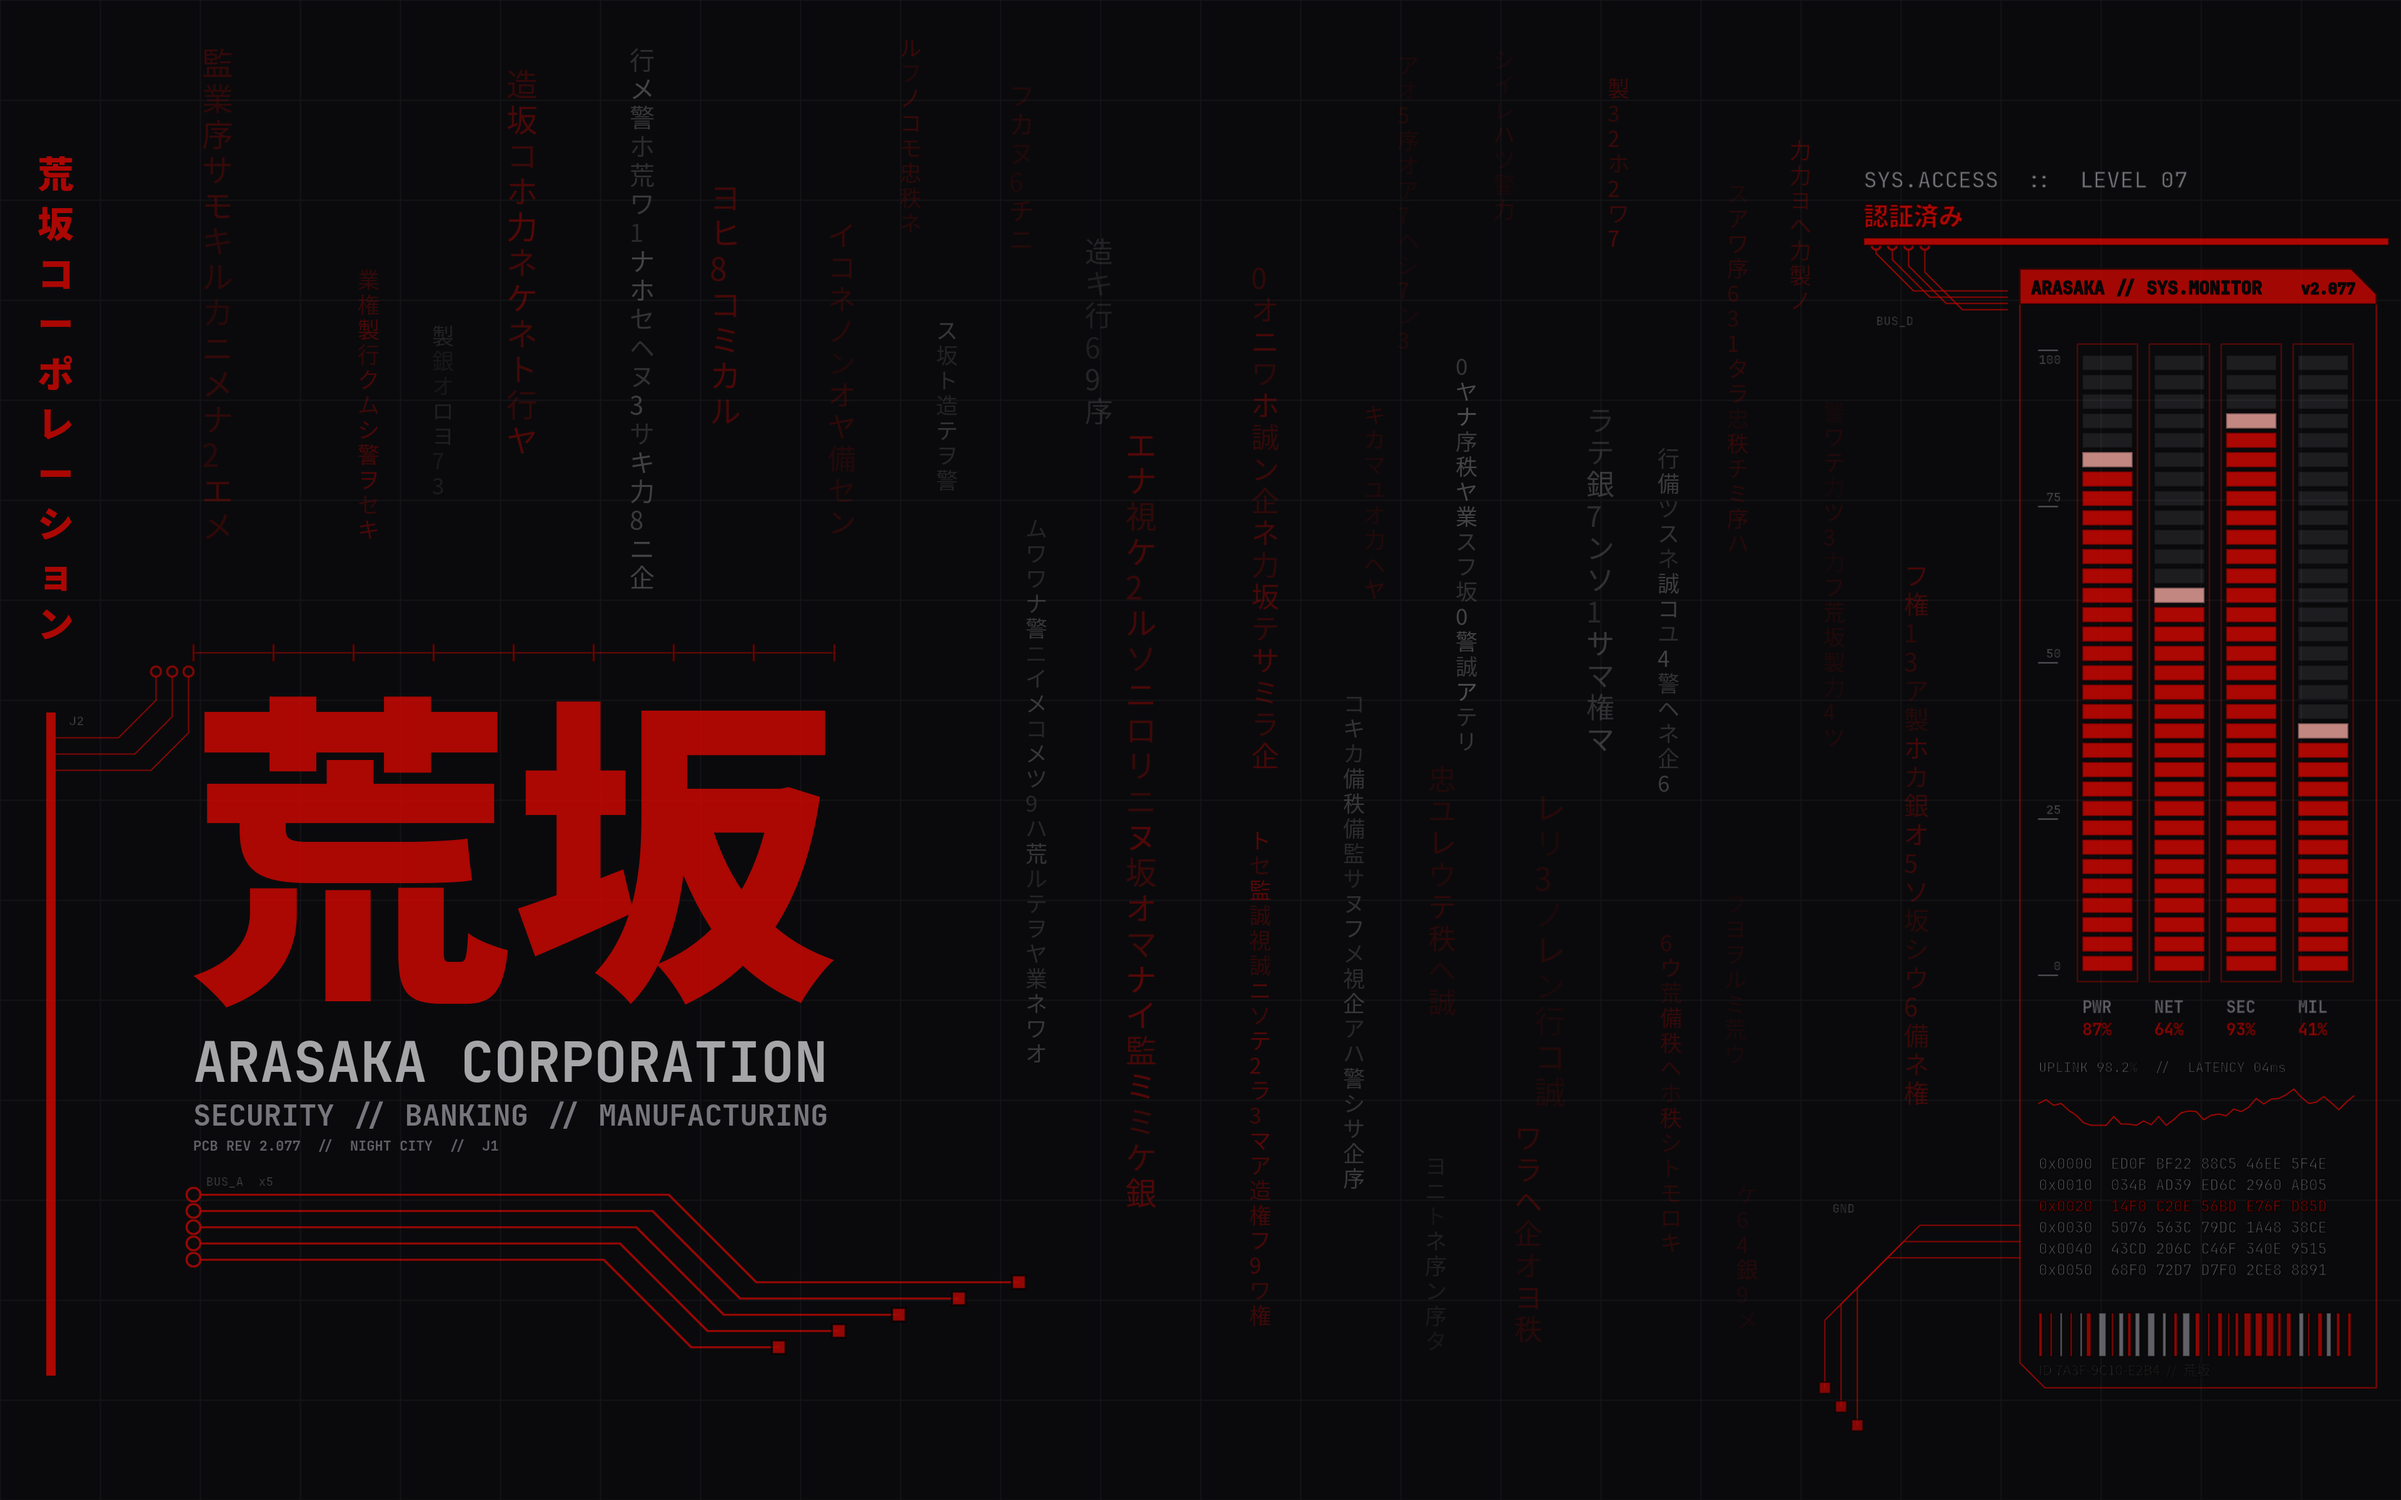
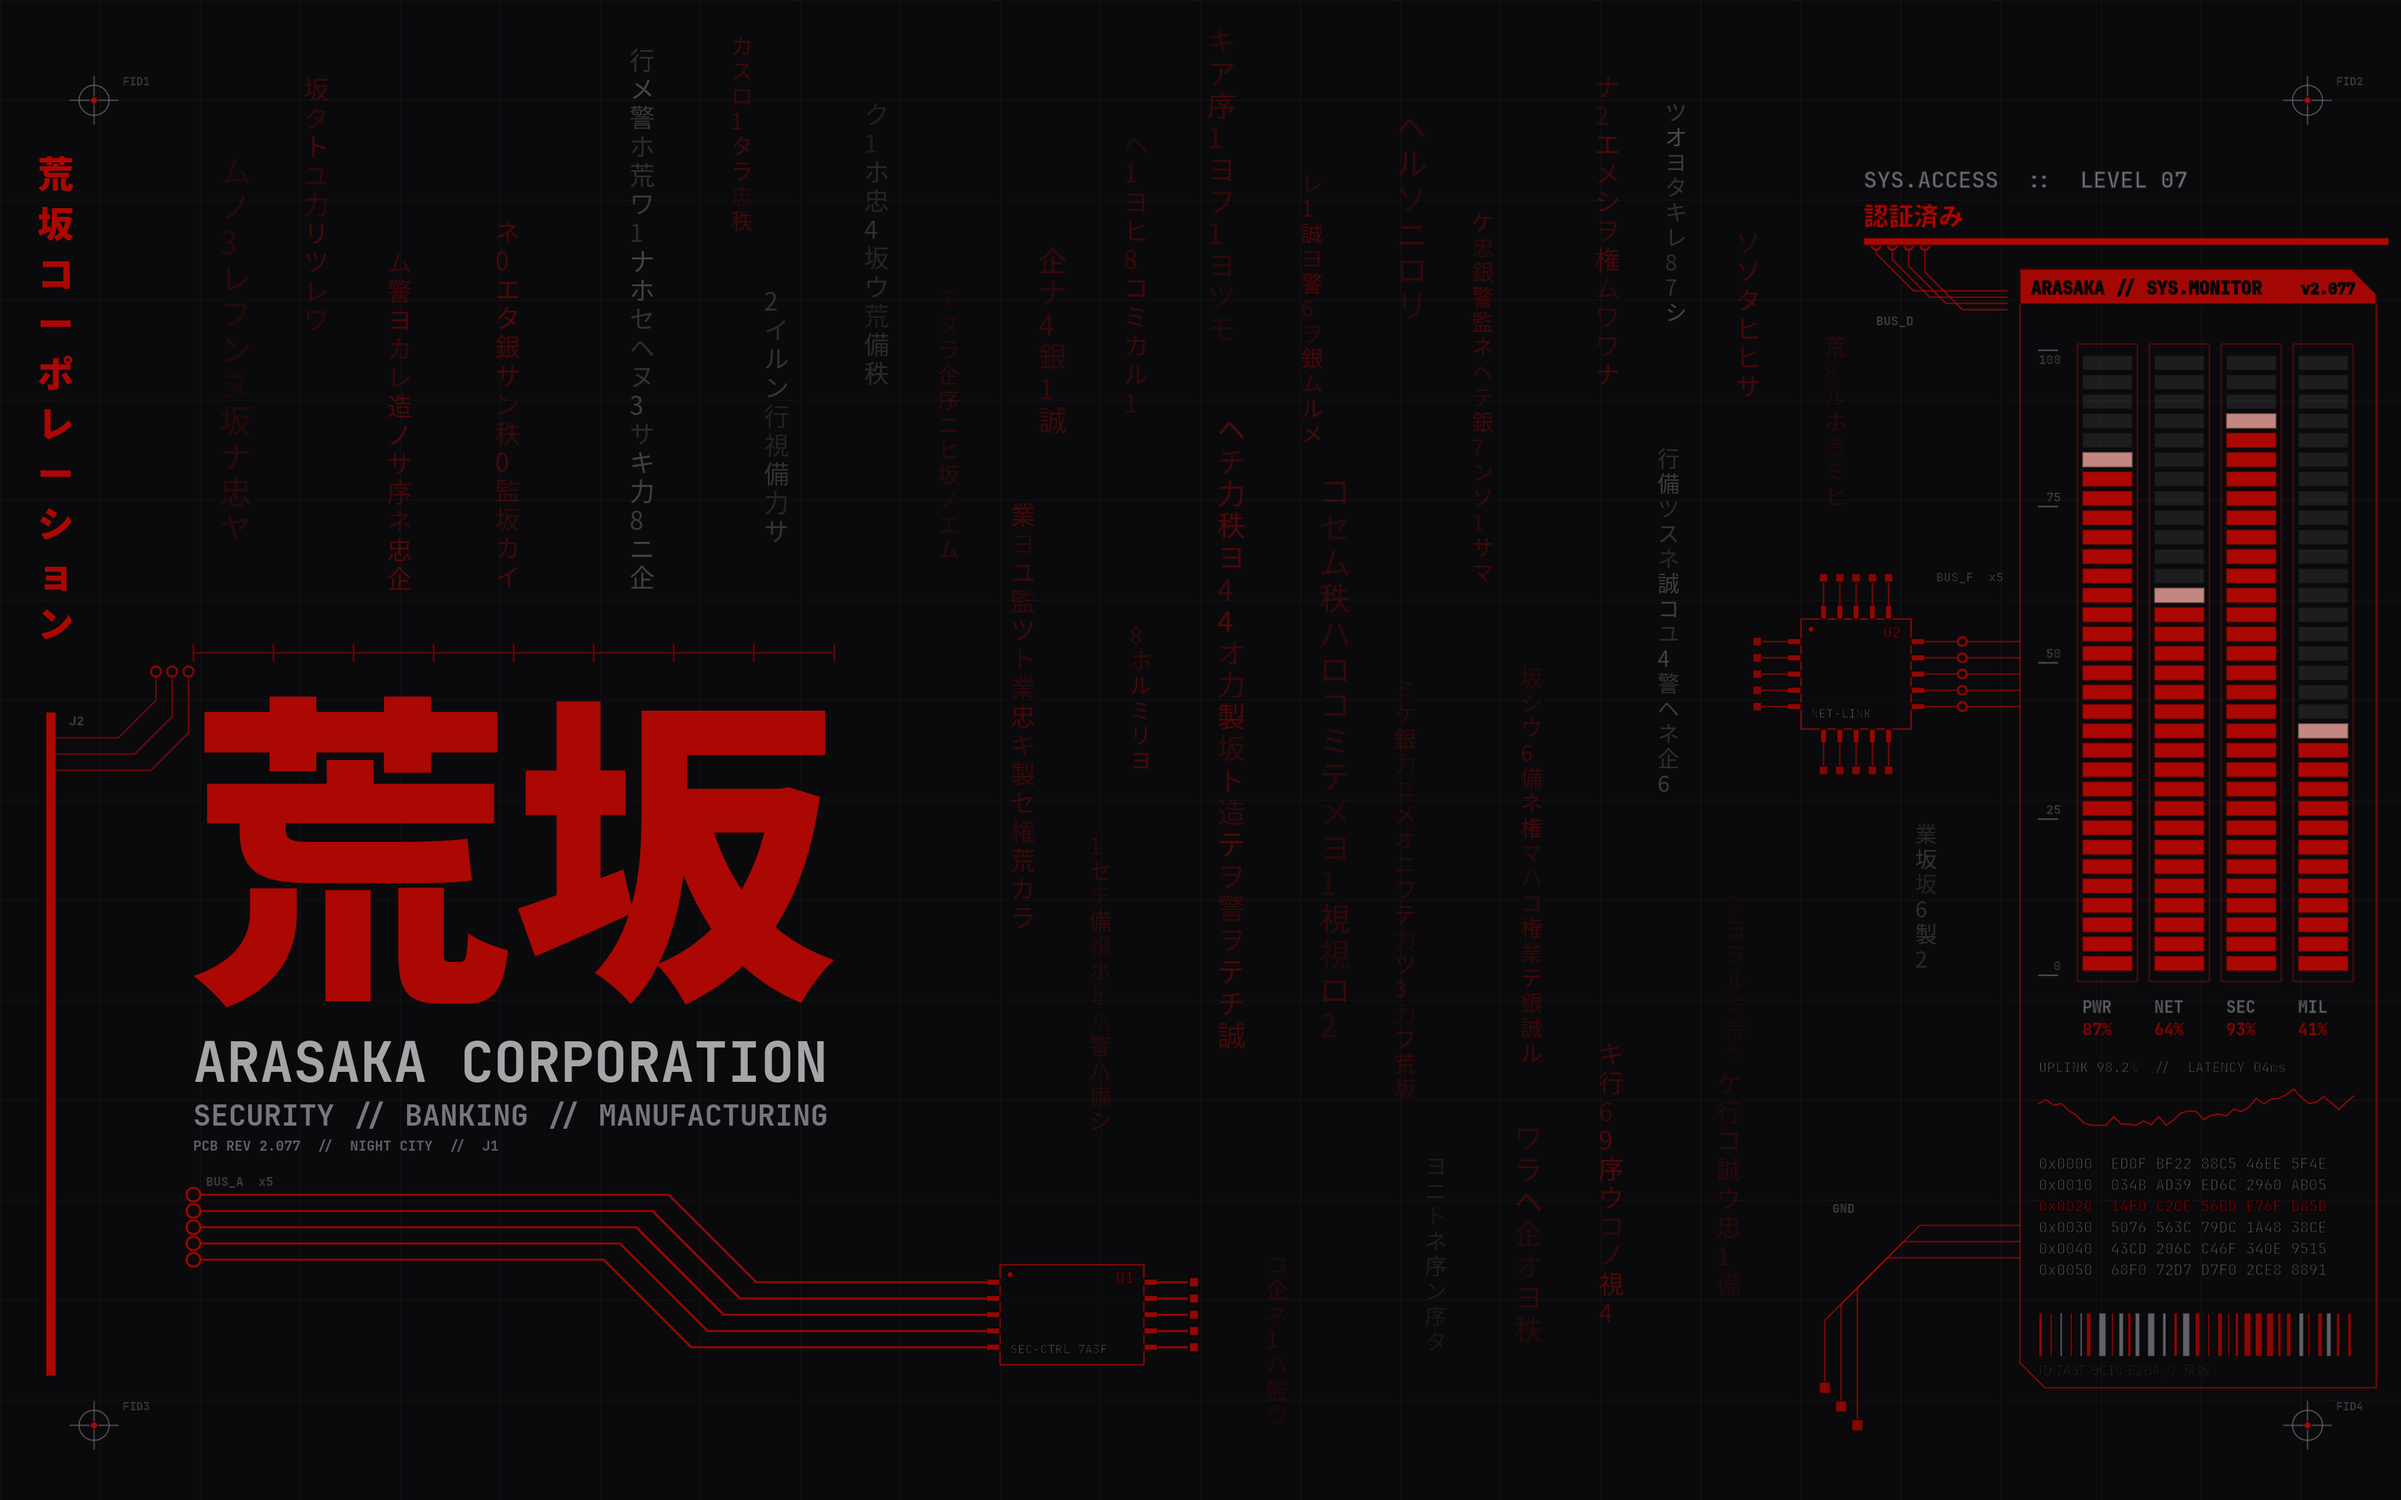
Add chip footprints and fiducials to wallpapers

diff --git a/watermark.py b/watermark.py
@@ -18,6 +18,36 @@ def via(x, y, a=0.9, r=11):
     out.append(f"stroke '{RED}' stroke-width 3 stroke-opacity {a} fill '{INK}' fill-opacity 0.9 circle {x},{y} {x + r},{y}")
 def pad(x, y, a=0.9, s=11):
     rect(x - s, y - s, x + s, y + s, RED, a)
+def chip(x0, y0, w, h, pins, pitch, label, sub, sides='lr', a=0.85, pin_len=22, pin_w=10):
+    # IC footprint: dark body, red outline, pin-1 dot, pins on the given sides.
+    # Returns the pin coordinates per side so traces can land on them.
+    out.append(f"stroke '{RED}' stroke-width 2 stroke-opacity {a} fill '{INK}' fill-opacity 0.85 rectangle {x0},{y0} {x0 + w},{y0 + h}")
+    out.append(f"stroke none fill '{RED}' fill-opacity {a} circle {x0 + 16},{y0 + 16} {x0 + 21},{y0 + 16}")
+    ys = [y0 + h // 2 - (pins - 1) * pitch // 2 + i * pitch for i in range(pins)]
+    xs = [x0 + w // 2 - (pins - 1) * pitch // 2 + i * pitch for i in range(pins)]
+    res = {}
+    if 'l' in sides:
+        for y in ys: rect(x0 - pin_len, y - pin_w // 2, x0, y + pin_w // 2, RED, a)
+        res['l'] = [(x0 - pin_len, y) for y in ys]
+    if 'r' in sides:
+        for y in ys: rect(x0 + w, y - pin_w // 2, x0 + w + pin_len, y + pin_w // 2, RED, a)
+        res['r'] = [(x0 + w + pin_len, y) for y in ys]
+    if 't' in sides:
+        for x in xs: rect(x - pin_w // 2, y0 - pin_len, x + pin_w // 2, y0, RED, a)
+        res['t'] = [(x, y0 - pin_len) for x in xs]
+    if 'b' in sides:
+        for x in xs: rect(x - pin_w // 2, y0 + h, x + pin_w // 2, y0 + h + pin_len, RED, a)
+        res['b'] = [(x, y0 + h + pin_len) for x in xs]
+    txt(x0 + w - 16 - 24 * len(label) * 0.6, y0 + 30, label, 24, RED, MONO, a)
+    txt(x0 + 16, y0 + h - 18, sub, 20, GREY, MONO, 0.8)
+    return res
+def fid(x, y, label, a=0.6, r=24):
+    # Fiducial: crosshair in a circle with a red center dot, like PCB alignment marks.
+    out.append(f"stroke '{GREY}' stroke-width 2 stroke-opacity {a} fill-opacity 0 circle {x},{y} {x + r},{y}")
+    poly([(x - r - 14, y), (x + r + 14, y)], col=GREY, w=2, a=a)
+    poly([(x, y - r - 14), (x, y + r + 14)], col=GREY, w=2, a=a)
+    out.append(f"stroke none fill '{RED}' fill-opacity {a + 0.2} circle {x},{y} {x + 6},{y}")
+    txt(x + r + 22, y - r, label, 18, GREY, MONO, a)
 
 # Panel geometry (right side)
 PX0, PX1, PY0, PY1 = 3230, 3800, 430, 2220
@@ -32,6 +62,9 @@ def clash(x, y0, y1, s):
     if x + s > PX0 - 60 and y1 > 250: return True                  # panel
     if x + s > 2900 and y0 < 480: return True                      # sys block + bus
     if x + s > 2840 and y1 > 1850: return True                     # bus E
+    if x + s > 1560 and x < 1960 and y1 > 1900: return True        # chip U1
+    if x + s > 2780 and x < 3240 and y1 > 900 and y0 < 1320: return True  # chip U2 + bus F
+    if (x < 300 or x + s > 3560) and (y0 < 280 or y1 > 2160): return True  # fiducials
     return any(abs(cx - x) < (cs + s) * 1.4 and not (y1 < cy0 or y0 > cy1) for (cx, cy0, cy1, cs) in cols)
 tries = 0
 while len(cols) < 34 and tries < 8000:
@@ -59,12 +92,16 @@ txt(bx, y2 + 40, 'PCB REV 2.077  //  NIGHT CITY  //  J1', 22, GREY, MONO, 0.8)
 
 # ---- PCB traces ----
 d = 26  # trace pitch
-# Bus A: 5 traces leaving the tagline to the right, 45deg down, staggered pads.
-ya = y2 + 110
+# Bus A: 5 traces leaving the tagline to the right, 45deg down, into chip U1.
+ya = y2 + 110; run = 140
+U1X, U1W, U1H = bx + 1290, 230, 160
+u1 = chip(U1X, ya + run - 28, U1W, U1H, 5, d, 'U1', 'SEC-CTRL 7A3F', 'lr')
 for i in range(5):
-    y = ya + i * d; xa = bx + 760 - i * d; run = 140
-    pts = [(bx, y), (xa, y), (xa + run, y + run), (xa + run + 420 - i * 70, y + run)]
-    poly(pts, a=0.85); via(pts[0][0], pts[0][1], 0.85); pad(pts[-1][0], pts[-1][1], 0.85)
+    y = ya + i * d; xa = bx + 760 - i * d
+    pts = [(bx, y), (xa, y), (xa + run, y + run), u1['l'][i]]
+    poly(pts, a=0.85); via(pts[0][0], pts[0][1], 0.85)
+for (x, y) in u1['r']:
+    poly([(x, y), (x + 50, y)], a=0.85); pad(x + 58, y, 0.85, 8)
 # Bus B: 3 traces from the left rail into the logo top edge, with vias.
 for i in range(3):
     y = 1180 + i * d
@@ -86,6 +123,20 @@ for i in range(3):
     y = 1960 + i * d
     pts = [(PX0, y), (PX0 - 160 - i * d, y), (PX0 - 260 - i * d, y + 100), (PX0 - 260 - i * d, 2280 - i * 30)]
     poly(pts, a=0.75, w=2); pad(pts[-1][0], pts[-1][1], 0.75, 9)
+# Bus F: 5 traces from chip U2 (QFP) straight into the panel's left edge.
+U2X, U2Y, U2S = 2880, 990, 176
+u2 = chip(U2X, U2Y, U2S, U2S, 5, d, 'U2', 'NET-LINK', 'lrtb')
+for (x, y) in u2['r']:
+    poly([(x, y), (PX0, y)], a=0.75, w=2); via(x + 60, y, 0.75, 7)
+for (x, y) in u2['l']:
+    poly([(x, y), (x - 40, y)], a=0.75, w=2); pad(x - 48, y, 0.75, 7)
+for (x, y) in u2['t']:
+    poly([(x, y), (x, y - 36)], a=0.75, w=2); pad(x, y - 44, 0.75, 7)
+for (x, y) in u2['b']:
+    poly([(x, y), (x, y + 36)], a=0.75, w=2); pad(x, y + 44, 0.75, 7)
+txt(U2X + U2S + 40, U2Y - 60, 'BUS_F  x5', 20, GREY, MONO, 0.7)
+# Fiducials in the four corners.
+fid(150, 160, 'FID1'); fid(3690, 160, 'FID2'); fid(150, 2280, 'FID3'); fid(3690, 2280, 'FID4')
 # Silkscreen labels on the buses.
 txt(bx + 20, ya - 14, 'BUS_A  x5', 20, GREY, MONO, 0.7)
 txt(110, 1160, 'J2', 20, GREY, MONO, 0.7)
